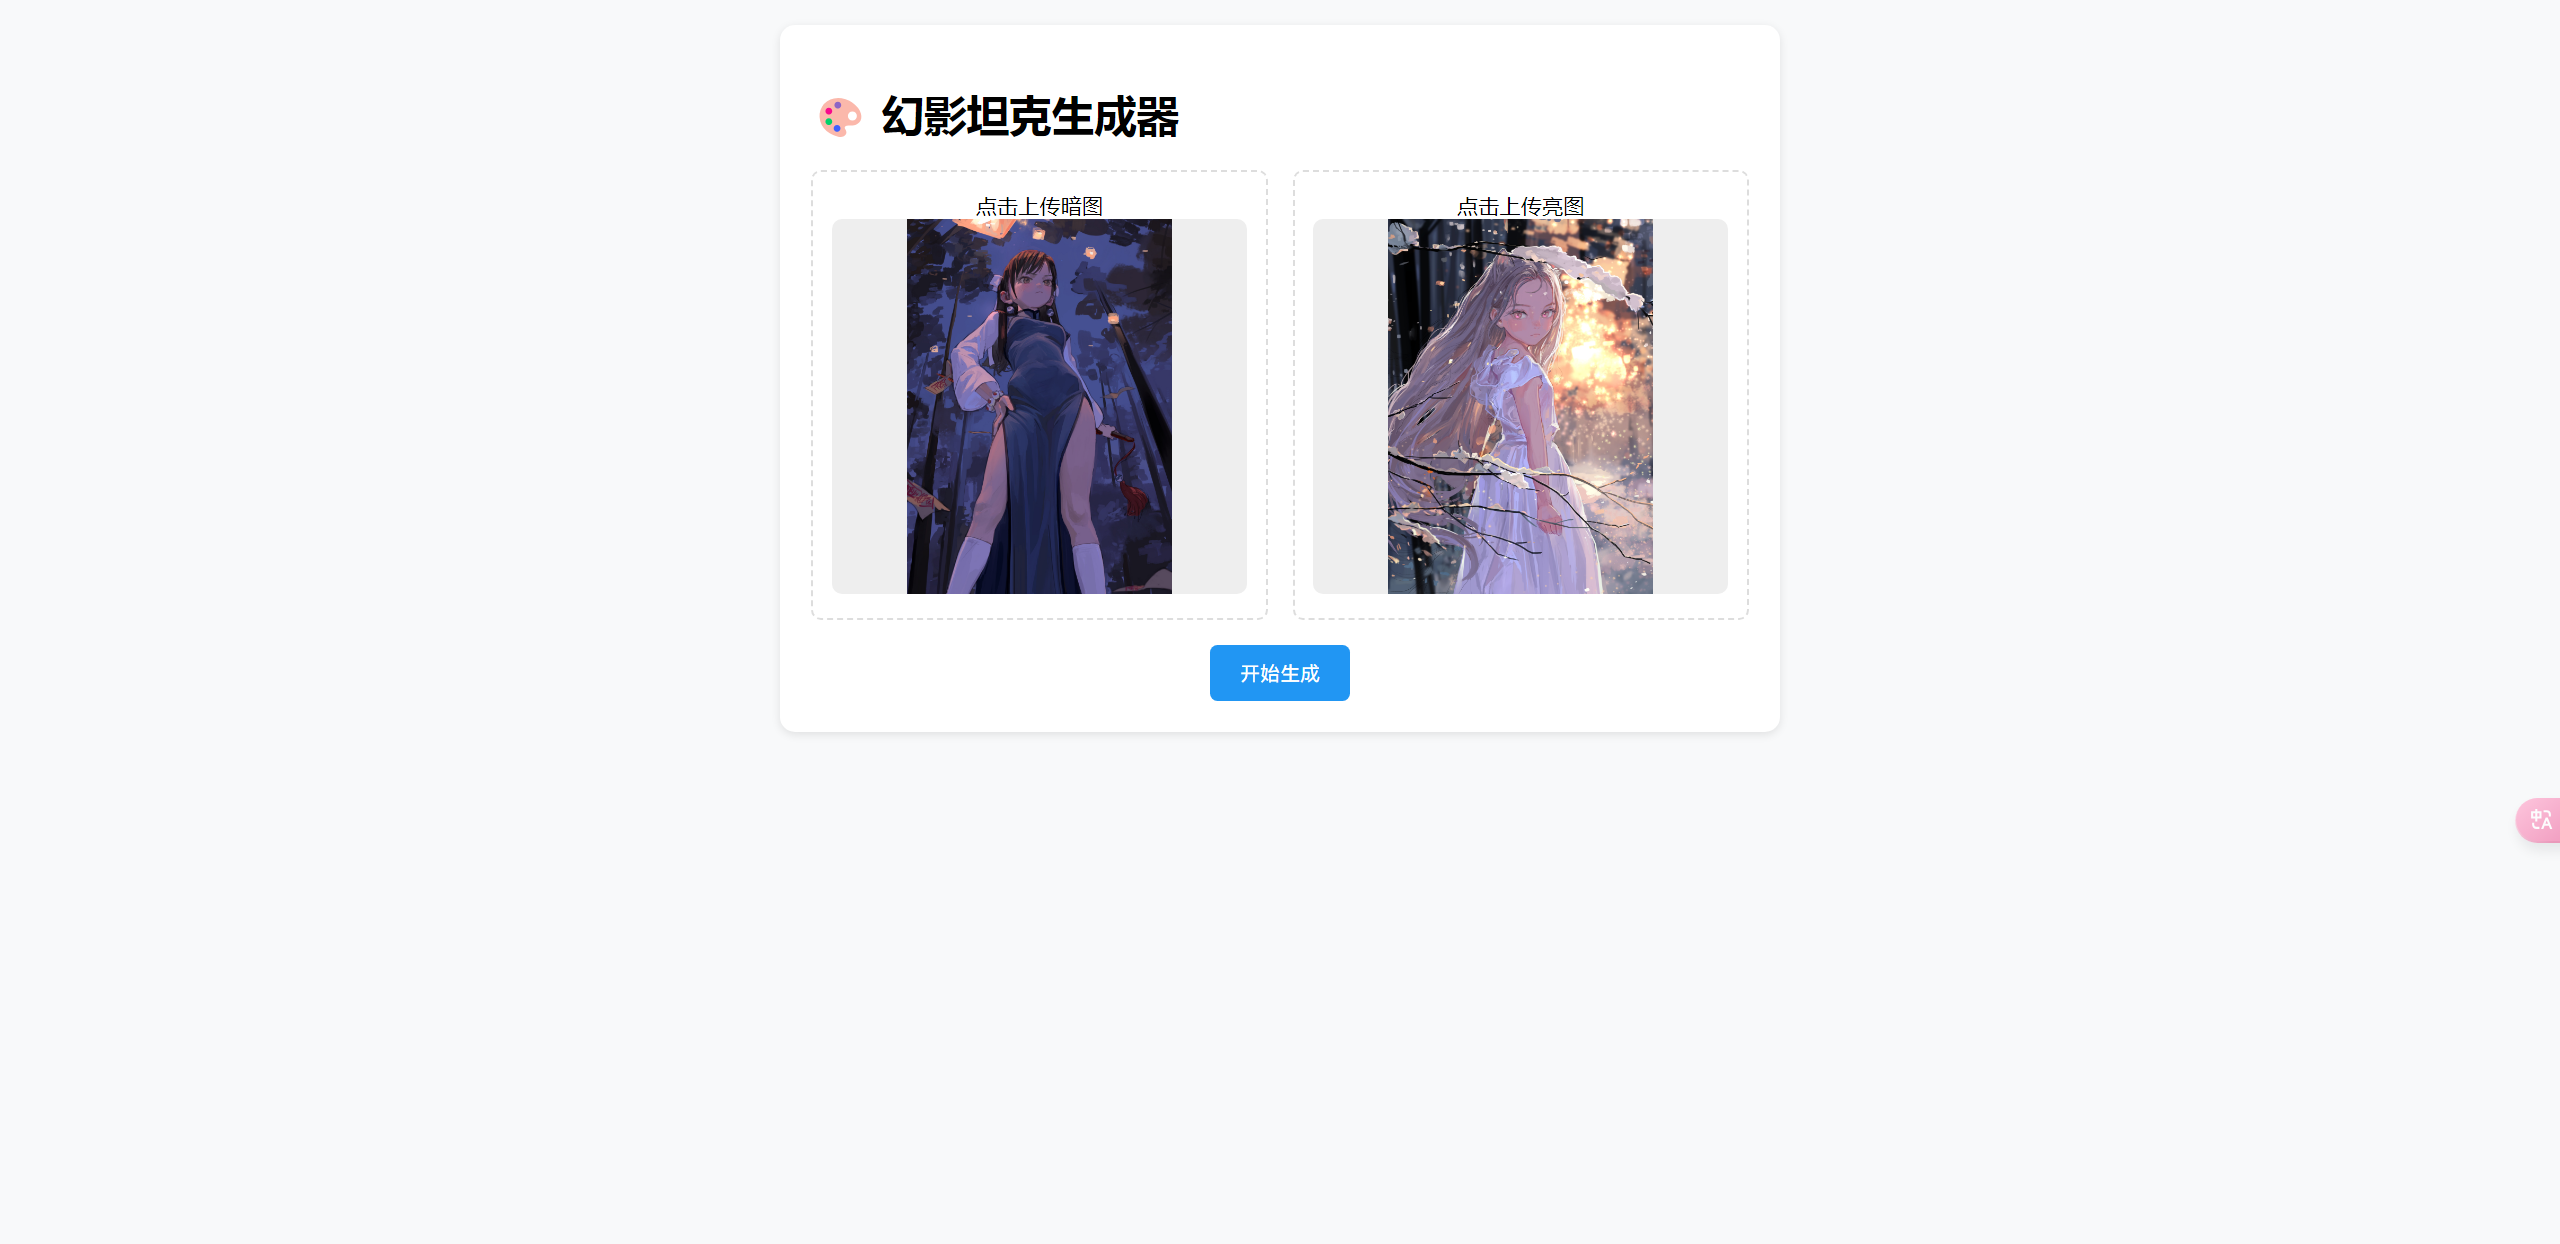
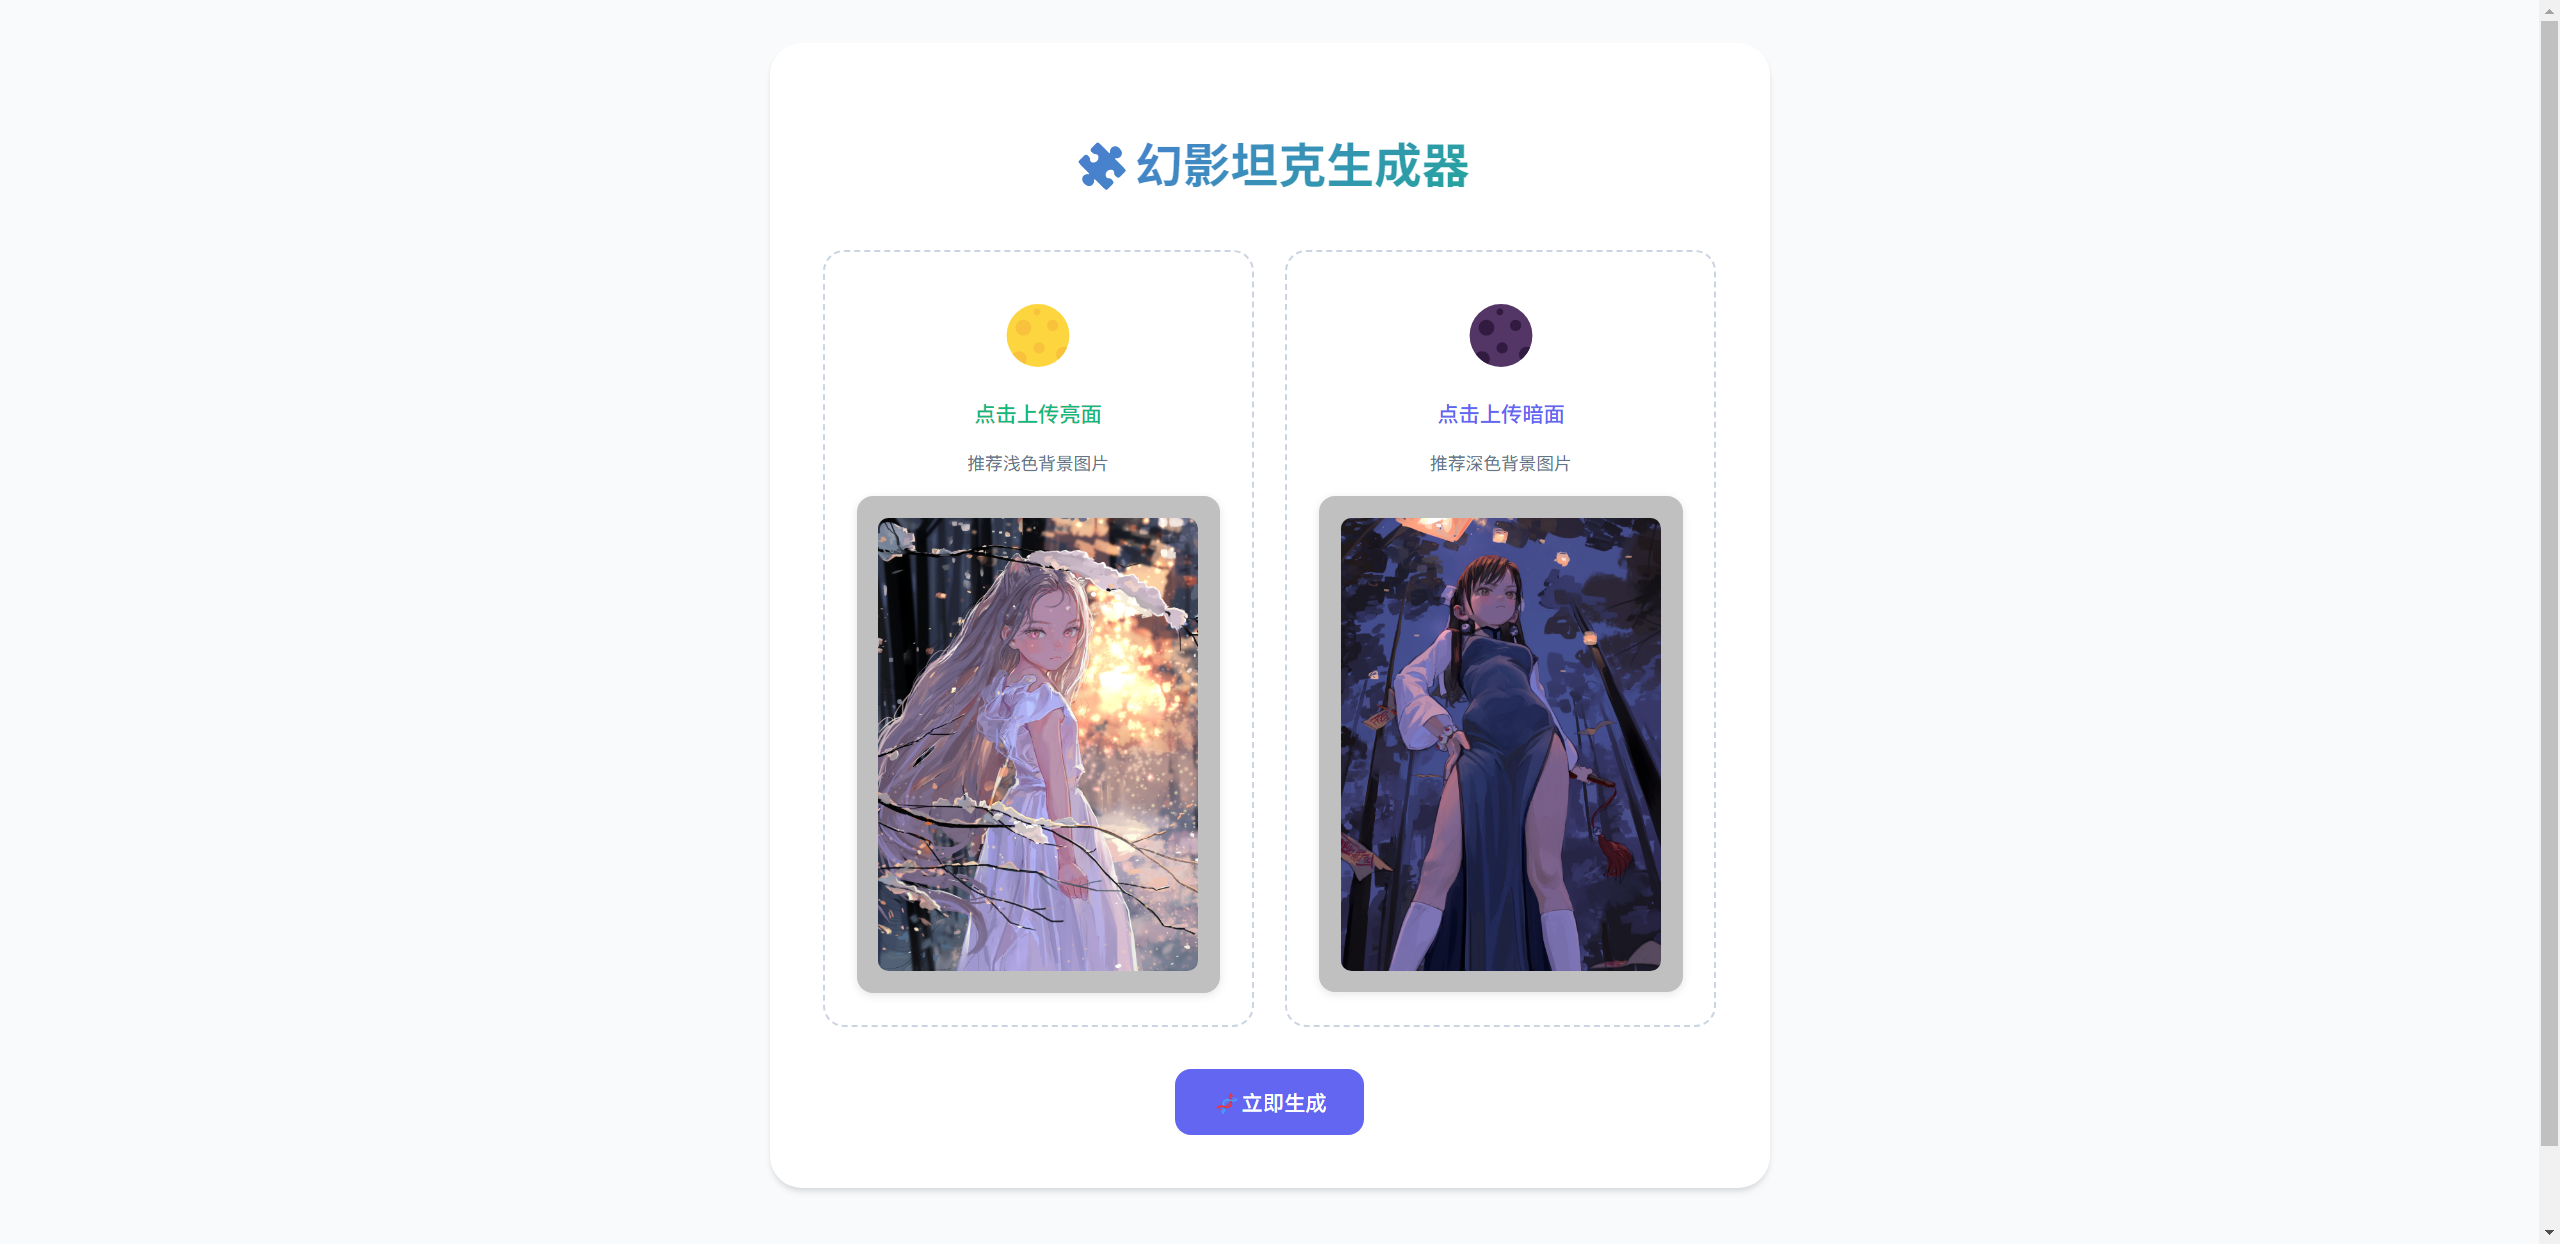
修复系统变量类型读取不正确问题；修复下载不是原图问题；更新页面截图

Changed region(s): [[0.3125, 0.0611, 0.6562, 0.8248], [0.9688, 0.0, 1.0, 0.9164], [0.4375, 0.8553, 0.5312, 0.9164]]

diff --git a/phantom_tank.py b/phantom_tank.py
@@ -19,7 +19,7 @@ def load_config_from_env():
     """从环境变量加载配置，缺失时回退到默认值"""
     config = DEFAULT_CONFIG.copy()  # 初始化为默认配置
     if "FILE_SIZE_LIMIT" in os.environ:
-        config["file_size_limit"] = os.environ["FILE_SIZE_LIMIT"]
+        config["file_size_limit"] = int(os.environ["FILE_SIZE_LIMIT"]) 
     if "MAX_REQUESTS_PER_MINUTE" in os.environ:
         config["max_requests_per_minute"] = int(os.environ["MAX_REQUESTS_PER_MINUTE"])
     return config
@@ -132,7 +132,7 @@ def handle_rate_limit(error):
     return f"ERROR:{error.code}:{error.description}", error.code
 @app.before_request
 def check_rate_limit():
-    if request.path == '/generate':
+    if request.path == '/generate' or request.path.startswith('/download'):
         client_ip = request.remote_addr
         now = time.time()
         # 清理超过1分钟的记录
@@ -194,14 +194,15 @@ def generate():
         output_path = os.path.join(base_dirs['output'], 'result.png')
         result.save(output_path, 'PNG', optimize=True, compress_level=3)
 
+        preview_img = result.copy()  # 创建副本用于缩略图处理
+        preview_img.thumbnail((400, 400), Image.Resampling.LANCZOS)
         preview_buf = io.BytesIO()
-        result.thumbnail((400, 400), Image.Resampling.LANCZOS)
-        result.save(preview_buf, 'PNG')
+        preview_img.save(preview_buf, 'PNG')
         preview_b64 = base64.b64encode(preview_buf.getvalue()).decode()
 
-        # 缓存下载文件
+        # 缓存下载文件（直接使用原图）
         output_buf = io.BytesIO()
-        result.save(output_buf, 'PNG')
+        result.save(output_buf, 'PNG')  # 原图未被修改，直接保存
         DOWNLOAD_CACHE[token] = {
             'data': output_buf.getvalue(),
             'timestamp': time.time()
